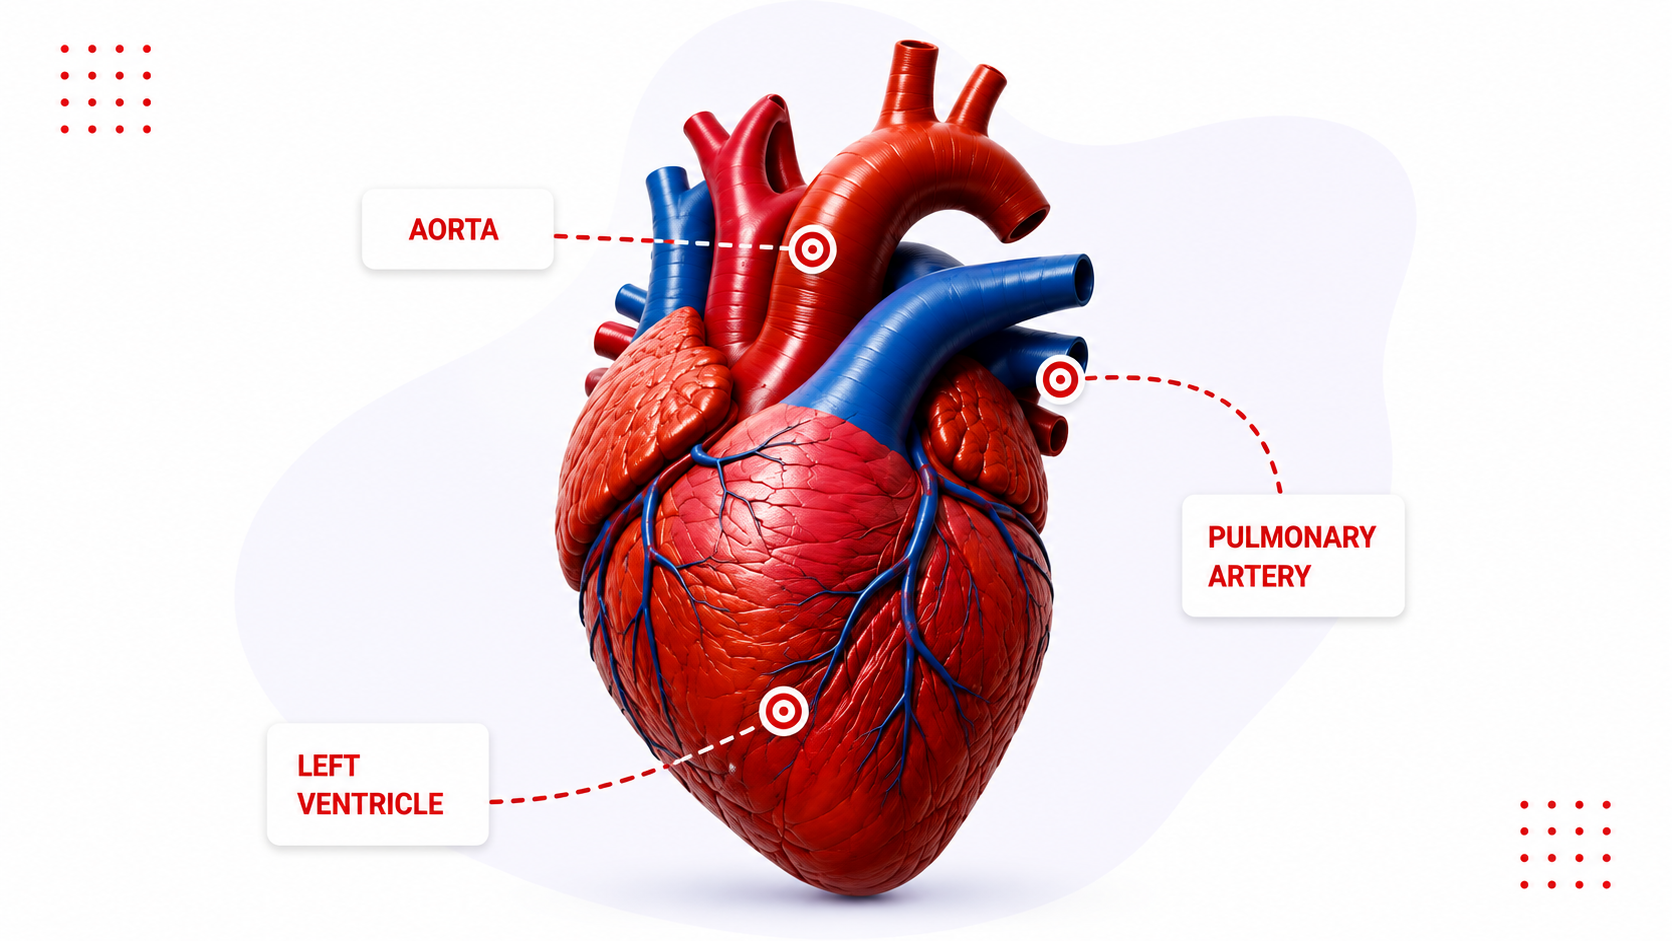
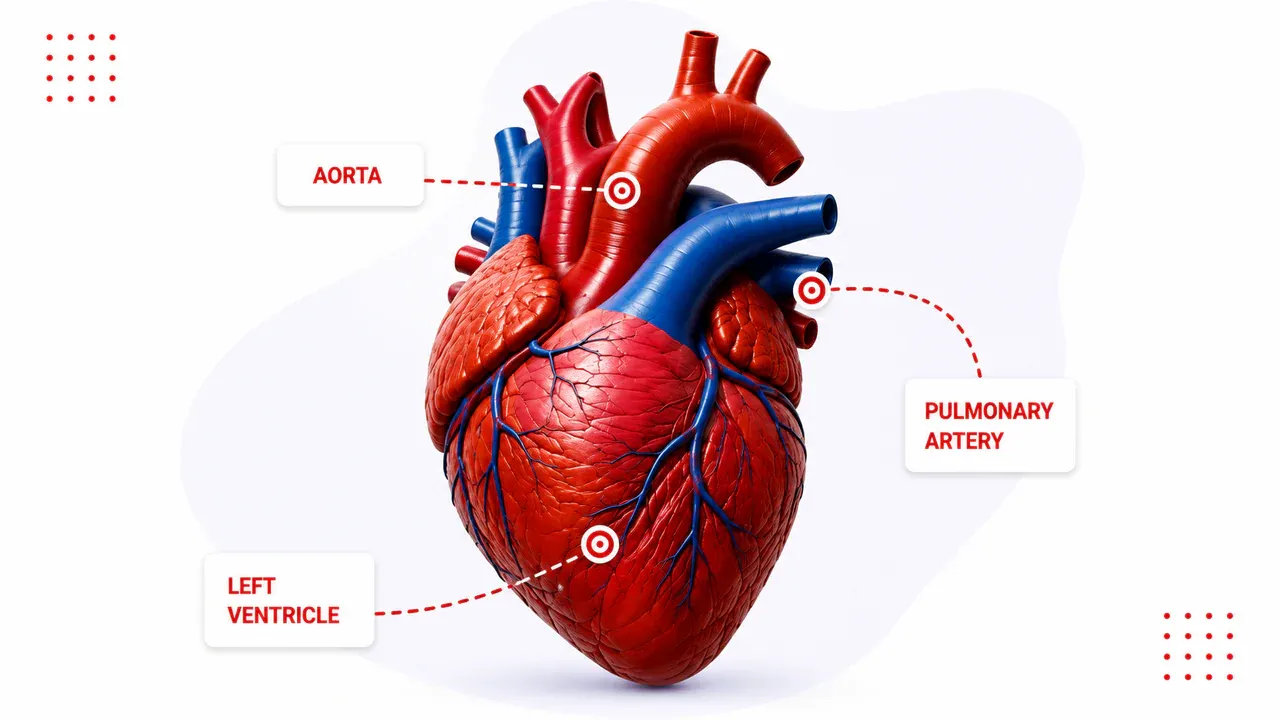
Compress all images to high-efficiency WebP and clean up redundant assets

diff --git a/frontend/src/components/layout/Logo.tsx b/frontend/src/components/layout/Logo.tsx
@@ -1,4 +1,4 @@
-import logoWhite from "@/assets/gamibar-logo-white.png";
+import logoWhite from "@/assets/gamibar-logo-white.webp";
 import { cn } from "@/lib/utils";
 
 type LogoProps = {
